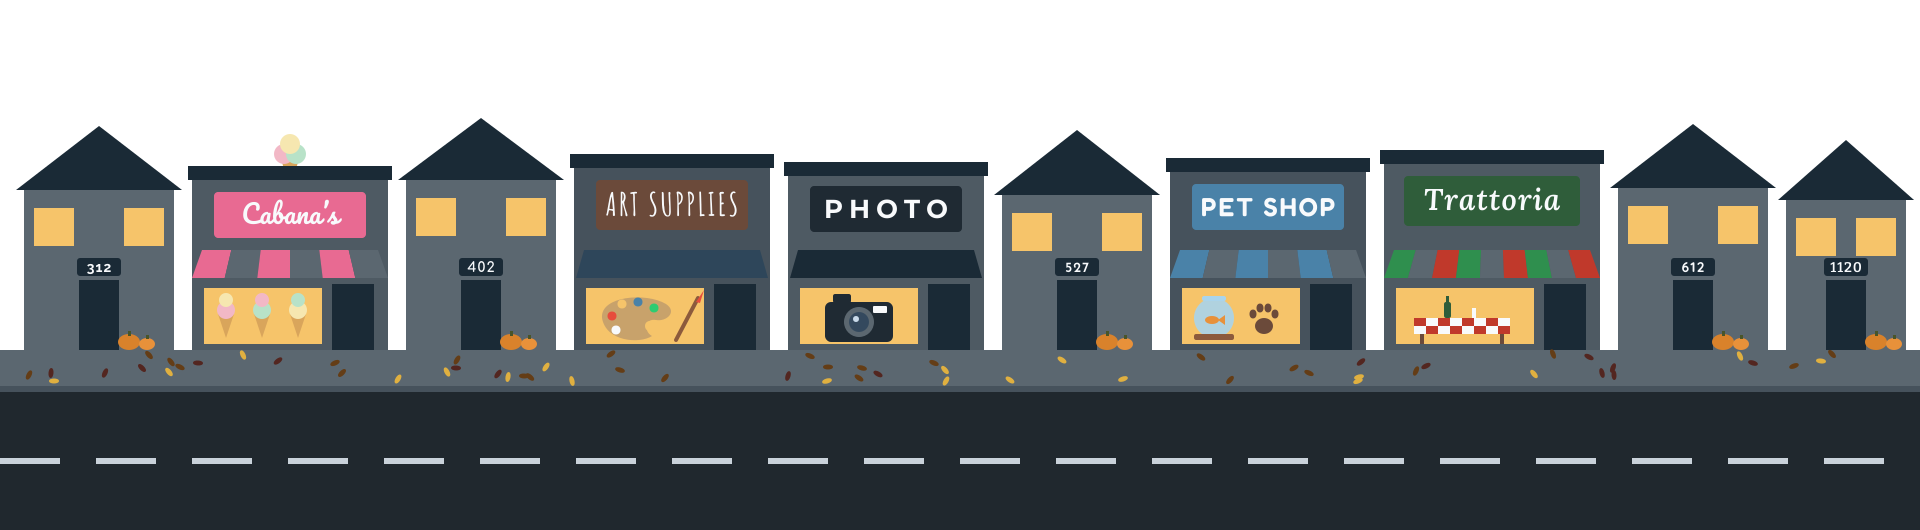
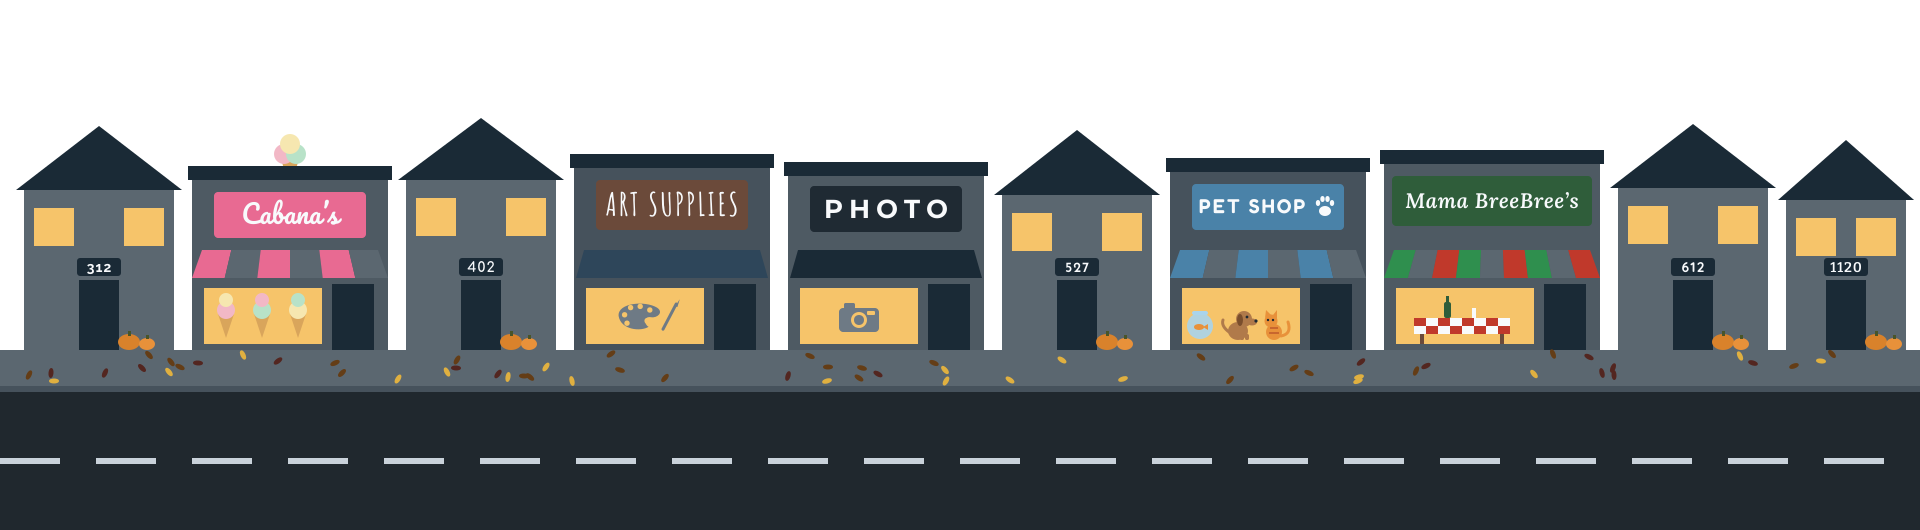
Rename the restaurant and update the shop windows
- The Italian restaurant is now Mama BreeBree's. Its sign is wider and
  its letters smaller so the full name fits.
- The art palette and the camera are smaller and gray, drawn like
  icons, with their details cut out in the window color.
- The pet shop window now has a puppy and a kitten next to a smaller
  fish bowl. The paw print moved to the sign.

Claude-Session: https://claude.ai/code/session_01F1XyeJbkdn1kDtDDVeB88k

diff --git a/tools/generate_images.py b/tools/generate_images.py
@@ -404,6 +404,9 @@ def town_b(p, season):
     s += round_tree(1820, 900, 64, 36, p, season) + round_tree(1207, 900, 54, 26, p, season)
     return s + street(p, season)
 
+# Gray used for the icons in shop windows (the art palette and the camera)
+ICON = "#6E7A85"
+
 # Town section C: five houses and five shops. The houses are narrower than the
 # ones in section A so all ten buildings fit in 1920 pixels.
 def town_c(p, season):
@@ -455,47 +458,73 @@ def town_c(p, season):
 
     s += small_house(406, 150, 730, 668, "402", "comfortaa", 700)
 
-    # Art supply store, with a painter's palette and a brush in the window
+    # Art supply store. A small gray painter's palette and brush in the window,
+    # drawn like an icon. The paint spots and thumb hole are cut out in the
+    # window color.
     body, (wx, wy, ww, wh) = shop(574, 196, 704, W2)
-    px, py = wx + 50, wy + 30
+    px, py, k = wx + ww / 2 - 6, wy + wh / 2, 0.6
+    def pt(dx, dy):
+        return f"{px + dx * k:.1f},{py + dy * k:.1f}"
     s += (body + sign(596, 730, 152, 50, "#6B4A3A", "ART SUPPLIES", "amatic", 700, 32, 766, 2)
           + f'<polygon points="584,800 760,800 768,828 576,828" fill="{p["mid"]}"/>' + snow_flat(season, p, 584, 800, 176)
-          + f'<path d="M{px - 34},{py} C{px - 36},{py - 22} {px + 10},{py - 26} {px + 30},{py - 14} C{px + 42},{py - 6} {px + 30},{py + 4} {px + 20},{py + 2} '
-            f'C{px + 8},{py} {px + 8},{py + 14} {px + 16},{py + 18} C{px + 4},{py + 26} {px - 30},{py + 24} {px - 34},{py} Z" fill="#C8A26B"/>'
-          + f'<circle cx="{px + 14}" cy="{py + 8}" r="5" fill="{Wn}"/>')
-    for dx, dy, c in ((-24, -2, "#E74C3C"), (-14, -14, "#F6C46A"), (2, -16, "#4A82A8"), (18, -10, "#2ECC71"), (-20, 12, "#F8FAFC")):
-        s += f'<circle cx="{px + dx}" cy="{py + dy}" r="4.5" fill="{c}"/>'
-    s += (f'<line x1="{px + 40}" y1="{py + 22}" x2="{px + 62}" y2="{py - 20}" stroke="#8C5A3C" stroke-width="4" stroke-linecap="round"/>'
-          f'<path d="M{px + 60},{py - 16} L{px + 68},{py - 28} L{px + 64},{py - 15} Z" fill="#E74C3C"/>')
+          + f'<path d="M{pt(-34, 0)} C{pt(-36, -22)} {pt(10, -26)} {pt(30, -14)} C{pt(42, -6)} {pt(30, 4)} {pt(20, 2)} '
+            f'C{pt(8, 0)} {pt(8, 14)} {pt(16, 18)} C{pt(4, 26)} {pt(-30, 24)} {pt(-34, 0)} Z" fill="{ICON}"/>'
+          + f'<circle cx="{px + 14 * k:.1f}" cy="{py + 8 * k:.1f}" r="{5 * k:.1f}" fill="{Wn}"/>')
+    for dx, dy in ((-24, -2), (-14, -14), (2, -16), (18, -10), (-20, 12)):
+        s += f'<circle cx="{px + dx * k:.1f}" cy="{py + dy * k:.1f}" r="{4.5 * k:.1f}" fill="{Wn}"/>'
+    s += (f'<line x1="{px + 40 * k:.1f}" y1="{py + 22 * k:.1f}" x2="{px + 62 * k:.1f}" y2="{py - 20 * k:.1f}" stroke="{ICON}" stroke-width="3" stroke-linecap="round"/>'
+          f'<path d="M{pt(60, -16)} L{pt(68, -28)} L{pt(64, -15)} Z" fill="{ICON}"/>')
 
-    # Photography store, with a camera in the window
+    # Photography store. A small gray camera in the window, drawn like an icon.
+    # The lens and flash are cut out in the window color.
     body, (wx, wy, ww, wh) = shop(788, 196, 712, B)
-    cx, cy = wx + ww // 2, wy + 30
+    cx, cy = wx + ww // 2, wy + wh // 2 + 2
     s += (body + sign(810, 736, 152, 46, "#1F2A33", "PHOTO", "montserrat", 700, 26, 768, 6)
           + f'<polygon points="798,800 974,800 982,828 790,828" fill="{R}"/>' + snow_flat(season, p, 798, 800, 176)
-          + f'<rect x="{cx - 34}" y="{cy - 16}" width="68" height="40" rx="6" fill="#1F2A33"/><rect x="{cx - 26}" y="{cy - 24}" width="18" height="9" rx="2" fill="#1F2A33"/>'
-            f'<rect x="{cx + 14}" y="{cy - 12}" width="14" height="7" rx="1" fill="#F8FAFC"/>'
-            f'<circle cx="{cx}" cy="{cy + 4}" r="15" fill="#5B6770"/><circle cx="{cx}" cy="{cy + 4}" r="10" fill="#34495E"/><circle cx="{cx - 3}" cy="{cy + 1}" r="3" fill="#C9DAEA"/>')
+          + f'<rect x="{cx - 20}" y="{cy - 10}" width="40" height="24" rx="4" fill="{ICON}"/><rect x="{cx - 15}" y="{cy - 15}" width="11" height="6" rx="1.5" fill="{ICON}"/>'
+            f'<rect x="{cx + 8}" y="{cy - 7}" width="8" height="4" rx="1" fill="{Wn}"/>'
+            f'<circle cx="{cx}" cy="{cy + 2}" r="8" fill="{Wn}"/><circle cx="{cx}" cy="{cy + 2}" r="5" fill="{ICON}"/>')
 
     s += small_house(1002, 150, 745, 680, "527", "josefin", 600)
 
-    # Pet shop, with a fish bowl and a paw print in the window
+    # Pet shop. A fish bowl, a puppy, and a kitten in the window, and a paw
+    # print on the sign.
     body, (wx, wy, ww, wh) = shop(1170, 196, 708, W2)
-    fx, fy = wx + 32, wy + 30
-    s += (body + sign(1192, 734, 152, 46, "#4A82A8", "PET SHOP", "fredoka", 600, 26, 766, 2)
-          + awning(1170, 196, ["#4A82A8", A])
-          + f'<circle cx="{fx}" cy="{fy}" r="20" fill="#A9D4EC" fill-opacity="0.9"/><rect x="{fx - 12}" y="{fy - 22}" width="24" height="5" rx="2" fill="#A9D4EC"/>'
-            f'<ellipse cx="{fx - 2}" cy="{fy + 2}" rx="7" ry="4" fill="#E8913A"/><polygon points="{fx + 4},{fy + 2} {fx + 11},{fy - 3} {fx + 11},{fy + 7}" fill="#E8913A"/>'
-            f'<rect x="{fx - 20}" y="{fy + 16}" width="40" height="6" rx="2" fill="#8C5A3C"/>')
-    qx, qy = wx + 82, wy + 32
-    s += f'<ellipse cx="{qx}" cy="{qy + 6}" rx="9" ry="8" fill="#6B4A3A"/>'
-    for dx, dy in ((-11, -6), (-4, -12), (4, -12), (11, -6)):
-        s += f'<ellipse cx="{qx + dx}" cy="{qy + dy}" rx="3.5" ry="4.5" fill="#6B4A3A"/>'
+    s += (body + sign(1192, 734, 152, 46, "#4A82A8", "", "fredoka", 600, 22, 764)
+          + text("PET SHOP", "fredoka", 600, 20, 1252, 763, "#F8FAFC", 2)
+          + awning(1170, 196, ["#4A82A8", A]))
+    qx, qy = 1325, 757
+    s += f'<ellipse cx="{qx}" cy="{qy + 4}" rx="6" ry="5" fill="#F8FAFC"/>'
+    for dx, dy in ((-7, -4), (-2.5, -8), (2.5, -8), (7, -4)):
+        s += f'<ellipse cx="{qx + dx}" cy="{qy + dy}" rx="2.2" ry="3" fill="#F8FAFC"/>'
+    base = wy + wh - 4   # The animals and the bowl sit on the bottom of the window
+    fx, fy = wx + 18, base - 14
+    s += (f'<circle cx="{fx}" cy="{fy}" r="13" fill="#A9D4EC" fill-opacity="0.9"/><rect x="{fx - 8}" y="{fy - 15}" width="16" height="4" rx="2" fill="#A9D4EC"/>'
+          f'<ellipse cx="{fx - 1}" cy="{fy + 1}" rx="5" ry="3" fill="#E8913A"/><polygon points="{fx + 3},{fy + 1} {fx + 8},{fy - 2} {fx + 8},{fy + 4}" fill="#E8913A"/>')
+    # Puppy, sitting and facing right
+    dx = wx + 56
+    PUP, PUPD = "#B07A4A", "#7A4E2C"
+    s += (f'<ellipse cx="{dx}" cy="{base - 9}" rx="10" ry="9" fill="{PUP}"/>'
+          f'<path d="M{dx - 9},{base - 8} Q{dx - 17},{base - 14} {dx - 15},{base - 20}" stroke="{PUP}" stroke-width="3" fill="none" stroke-linecap="round"/>'
+          f'<circle cx="{dx + 6}" cy="{base - 21}" r="8" fill="{PUP}"/><ellipse cx="{dx + 14}" cy="{base - 18}" rx="5" ry="3.5" fill="{PUP}"/>'
+          f'<ellipse cx="{dx + 2}" cy="{base - 20}" rx="3" ry="6" fill="{PUPD}"/>'
+          f'<circle cx="{dx + 9}" cy="{base - 23}" r="1.4" fill="#1F2A33"/><circle cx="{dx + 18}" cy="{base - 19}" r="1.6" fill="#1F2A33"/>'
+          f'<rect x="{dx + 2}" y="{base - 6}" width="4" height="6" rx="1.5" fill="{PUP}"/><rect x="{dx + 7}" y="{base - 6}" width="4" height="6" rx="1.5" fill="{PUP}"/>')
+    # Kitten, sitting and facing left, with its tail curled up
+    kx = wx + 92
+    KIT, KITD = "#E8913A", "#C8662E"
+    s += (f'<path d="M{kx + 7},{base - 4} Q{kx + 18},{base - 6} {kx + 14},{base - 18}" stroke="{KIT}" stroke-width="3" fill="none" stroke-linecap="round"/>'
+          f'<ellipse cx="{kx}" cy="{base - 8}" rx="8" ry="8" fill="{KIT}"/>'
+          f'<circle cx="{kx - 3}" cy="{base - 19}" r="6.5" fill="{KIT}"/>'
+          f'<polygon points="{kx - 9},{base - 22} {kx - 8},{base - 30} {kx - 3},{base - 25}" fill="{KIT}"/>'
+          f'<polygon points="{kx - 1},{base - 25} {kx + 3},{base - 30} {kx + 3},{base - 21}" fill="{KIT}"/>'
+          f'<path d="M{kx - 4},{base - 12} L{kx + 4},{base - 12}" stroke="{KITD}" stroke-width="2"/><path d="M{kx - 5},{base - 7} L{kx + 5},{base - 7}" stroke="{KITD}" stroke-width="2"/>'
+          f'<circle cx="{kx - 6}" cy="{base - 20}" r="1.2" fill="#1F2A33"/><circle cx="{kx - 1}" cy="{base - 20}" r="1.2" fill="#1F2A33"/>')
 
-    # Italian restaurant, with an awning in the colors of the Italian flag and a
-    # table with a checkered tablecloth in the window
+    # Mama BreeBree's, an Italian restaurant, with an awning in the colors of
+    # the Italian flag and a table with a checkered tablecloth in the window
     body, (wx, wy, ww, wh) = shop(1384, 216, 700, B)
-    s += (body + sign(1404, 726, 176, 50, "#2F5D3A", "Trattoria", "lora", 600, 30, 760, 1)
+    s += (body + sign(1392, 726, 200, 50, "#2F5D3A", "Mama BreeBree\u2019s", "lora", 600, 21, 758, 0.5)
           + awning(1384, 216, ["#2F8F4E", A, "#C0392B"]))
     tx, ty = wx + 18, wy + 30
     for row in range(2):

diff --git a/README.md b/README.md
@@ -23,7 +23,7 @@ These images are drawn by `tools/generate_images.py` from the same artwork the s
 ## Features
 
 - Five scenery layers that scroll at different speeds: clouds, far mountains, near mountains, hills with the river, and the town with the street. The center far mountain has a flat top, in the shape of Table Mountain in South Africa.
-- The town has three sections. The first has three houses (numbered 5401, 135, and 5334), a donut shop called Long's Donuts, a book store called Forever Books, Williams Hardware, and a diner called Luke's. The last two are references to Gilmore Girls. The second has a church named New City, a gas station with a small market, and the Hill Valley Courthouse Mall from Back to the Future, with its clock stopped at 10:04. The third has five more houses (numbered 312, 402, 527, 612, and 1120), an ice cream shop called Cabana's, an art supply store with a painter's palette in the window, a photography store with a camera in the window, a pet shop with a fish bowl and a paw print in the window, and an Italian restaurant called Trattoria.
+- The town has three sections. The first has three houses (numbered 5401, 135, and 5334), a donut shop called Long's Donuts, a book store called Forever Books, Williams Hardware, and a diner called Luke's. The last two are references to Gilmore Girls. The second has a church named New City, a gas station with a small market, and the Hill Valley Courthouse Mall from Back to the Future, with its clock stopped at 10:04. The third has five more houses (numbered 312, 402, 527, 612, and 1120), an ice cream shop called Cabana's, an art supply store with a small painter's palette icon in the window, a photography store with a small camera icon in the window, a pet shop with a fish bowl, a puppy, and a kitten in the window, and an Italian restaurant called Mama BreeBree's.
 - A car is parked at the gas station. The car and the direction it faces are chosen at random each time the screensaver starts.
 - Each store sign uses its own font.
 - Five cars: a sports car in the style of a Bugatti, a sedan, a van, a Jeep, and an old truck. Each has its own speed, and the wheels spin at a rate that matches it. The sports car is the fastest.
@@ -143,7 +143,7 @@ Store sign fonts:
 | Amatic SC | Art Supplies |
 | Montserrat | Photo |
 | Fredoka | Pet Shop |
-| Lora (Italic) | Trattoria |
+| Lora (Italic) | Mama BreeBree's |
 
 These fonts are from [Google Fonts](https://fonts.google.com/). All of them except Kaushan Script and Alegreya Sans are variable fonts: one file covers a range of weights, and the generator picks the weight for each sign. Kaushan Script has only one weight, and only the Medium weight of Alegreya Sans is included. They are licensed under the SIL Open Font License; the license for each font is in `tools/fonts` next to the font file. The fonts are used only by the generator and are not part of the Roku zip.
 
